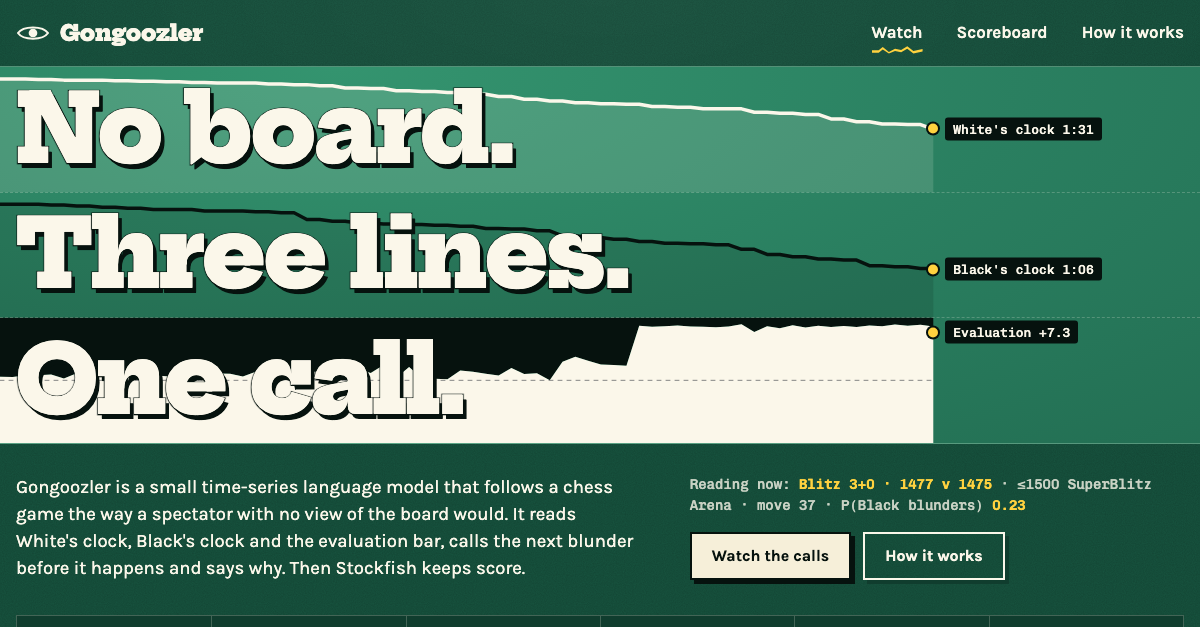
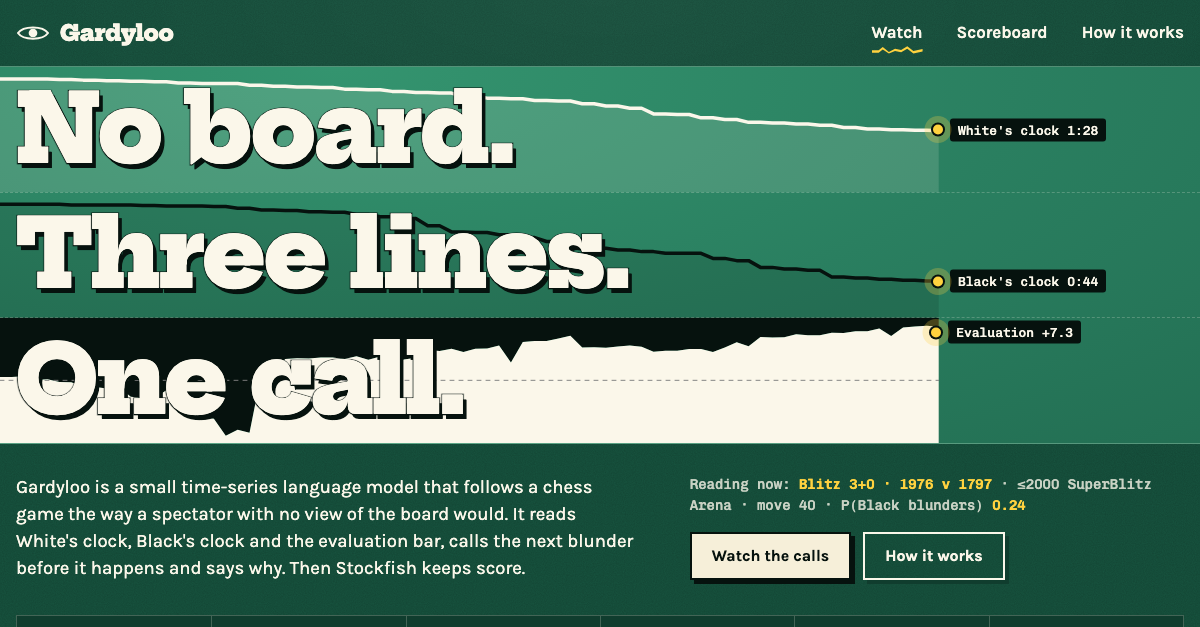
chore: rename the project to Gardyloo

diff --git a/web/index.html b/web/index.html
@@ -3,10 +3,10 @@
 <head>
 <meta charset="utf-8">
 <meta name="viewport" content="width=device-width, initial-scale=1">
-<title>Gongoozler · it calls the blunder without seeing the board</title>
+<title>Gardyloo · it calls the blunder without seeing the board</title>
 <meta name="description" content="A time-series language model that watches live chess through two clocks and the evaluation bar, calls the next blunder before it happens, and lets Stockfish keep score.">
 <meta property="og:type" content="website">
-<meta property="og:title" content="Gongoozler · it calls the blunder without seeing the board">
+<meta property="og:title" content="Gardyloo · it calls the blunder without seeing the board">
 <meta property="og:description" content="A time-series language model that watches live chess through two clocks and the evaluation bar, calls the next blunder before it happens, and lets Stockfish keep score.">
 <meta property="og:image:width" content="1200">
 <meta property="og:image:height" content="627">
@@ -21,16 +21,16 @@
 <a class="skip" href="#main">Skip to the live games</a>
 
 <header class="nav">
-  <a class="brand" href="#/" data-go="watch" aria-label="Gongoozler, home">
+  <a class="brand" href="#/" data-go="watch" aria-label="Gardyloo, home">
     <svg viewBox="0 0 40 24" aria-hidden="true"><path d="M2 12C8 3 32 3 38 12C32 21 8 21 2 12Z" fill="none" stroke="currentColor" stroke-width="2.4"/><circle cx="20" cy="12" r="5.2" fill="currentColor"/></svg>
-    <span>Gongoozler</span>
+    <span>Gardyloo</span>
   </a>
   <nav aria-label="Views">
     <a href="#/" data-go="watch" class="mag">Watch</a>
     <a href="#/score" data-go="score" class="mag">Scoreboard</a>
     <a href="#/how" data-go="how" class="mag">How it works</a>
     <!-- set href to the repository and remove `hidden` -->
-    <a class="gh mag" hidden target="_blank" rel="noreferrer" aria-label="GitHub repository"><svg viewBox="0 0 24 24" width="18" height="18" fill="currentColor" aria-hidden="true"><path d="M12 .5a11.5 11.5 0 0 0-3.64 22.41c.58.1.79-.25.79-.56v-2c-3.2.7-3.88-1.36-3.88-1.36-.52-1.33-1.28-1.69-1.28-1.69-1.05-.71.08-.7.08-.7 1.16.08 1.77 1.19 1.77 1.19 1.03 1.77 2.7 1.26 3.36.96.1-.75.4-1.26.73-1.55-2.55-.29-5.24-1.28-5.24-5.68 0-1.26.45-2.28 1.19-3.09-.12-.29-.52-1.46.11-3.05 0 0 .97-.31 3.17 1.18a11 11 0 0 1 5.78 0c2.2-1.49 3.17-1.18 3.17-1.18.63 1.59.23 2.76.11 3.05.74.81 1.19 1.83 1.19 3.09 0 4.41-2.69 5.38-5.25 5.67.41.36.78 1.06.78 2.14v3.17c0 .31.21.67.8.56A11.5 11.5 0 0 0 12 .5Z"/></svg></a>
+    <a class="gh mag" href="https://github.com/SudeepGowda55/gardyloo" target="_blank" rel="noreferrer" aria-label="GitHub repository"><svg viewBox="0 0 24 24" width="18" height="18" fill="currentColor" aria-hidden="true"><path d="M12 .5a11.5 11.5 0 0 0-3.64 22.41c.58.1.79-.25.79-.56v-2c-3.2.7-3.88-1.36-3.88-1.36-.52-1.33-1.28-1.69-1.28-1.69-1.05-.71.08-.7.08-.7 1.16.08 1.77 1.19 1.77 1.19 1.03 1.77 2.7 1.26 3.36.96.1-.75.4-1.26.73-1.55-2.55-.29-5.24-1.28-5.24-5.68 0-1.26.45-2.28 1.19-3.09-.12-.29-.52-1.46.11-3.05 0 0 .97-.31 3.17 1.18a11 11 0 0 1 5.78 0c2.2-1.49 3.17-1.18 3.17-1.18.63 1.59.23 2.76.11 3.05.74.81 1.19 1.83 1.19 3.09 0 4.41-2.69 5.38-5.25 5.67.41.36.78 1.06.78 2.14v3.17c0 .31.21.67.8.56A11.5 11.5 0 0 0 12 .5Z"/></svg></a>
   </nav>
 </header>
 
@@ -45,7 +45,7 @@
       <div class="lane"><p class="hl" aria-hidden="true"><span class="line" data-split>One call.</span></p><span class="pen" id="penE"></span></div>
     </div>
     <div class="hero-foot wrap">
-      <p class="lede">Gongoozler is a small time-series language model that follows a chess game the way a spectator with no view of the board would. It reads White's clock, Black's clock and the evaluation bar, calls the next blunder before it happens and says why. Then Stockfish keeps score.</p>
+      <p class="lede">Gardyloo is a small time-series language model that follows a chess game the way a spectator with no view of the board would. It reads White's clock, Black's clock and the evaluation bar, calls the next blunder before it happens and says why. Then Stockfish keeps score.</p>
       <div class="hero-side">
         <p class="reading" id="reading" aria-live="polite">Connecting to the watcher…</p>
         <div class="cta">
@@ -101,7 +101,7 @@
 <section class="view" id="view-how" data-view="how" hidden>
   <div class="wrap page-head">
     <h1 class="hl small"><span class="line" data-split>Watching without</span> <span class="line" data-split>seeing.</span></h1>
-    <p class="lede">A gongoozler is an idle spectator. This one cannot see the pieces. Scroll through one real game from the test set to see what it is given and how it is judged.</p>
+    <p class="lede">“Gardyloo!” was the cry in old Edinburgh before something was thrown from a window: a warning, just before it lands. This model shouts before a blunder, and it cannot see the pieces. Scroll through one real game from the test set to see what it is given and how it is judged.</p>
   </div>
   <div class="story" id="story">
     <div class="stage">
@@ -134,7 +134,7 @@
 </main>
 
 <footer class="foot wrap">
-  <p>Gongoozler, an entry for the TimeNet Online Hackathon. Games are real rated Lichess games in progress, shown without player names. <span id="footFeed"></span></p>
+  <p>Gardyloo, an entry for the TimeNet Online Hackathon. Games are real rated Lichess games in progress, shown without player names. <span id="footFeed"></span></p>
 </footer>
 
 <div class="banner" id="banner" role="status" aria-live="assertive" hidden></div>

diff --git a/web/js/app.js b/web/js/app.js
@@ -1,5 +1,5 @@
 "use strict";
-/* Gongoozler's page: live games as three time series, calls as paper slips, an honest scoreboard. No board anywhere. */
+/* Gardyloo's page: live games as three time series, calls as paper slips, an honest scoreboard. No board anywhere. */
 const $ = (s, r = document) => r.querySelector(s), $$ = (s, r = document) => [...r.querySelectorAll(s)];
 const el = (tag, cls, html) => { const e = document.createElement(tag); if (cls) e.className = cls; if (html != null) e.innerHTML = html; return e; };
 const REDUCED = matchMedia("(prefers-reduced-motion: reduce)").matches;
@@ -248,7 +248,7 @@ function tote() {
 function scoreView() {
   const sb = S.board; if (!sb) return;
   const a = sb.all, bar = (cls, text, v, none) => `<div class="vs ${cls}" style="--v:${v ?? 0}"><p class="k"><span>${text}</span><b>${v == null ? none : pct(v)}</b></p><div class="track"><i></i></div></div>`;
-  $("#versus").innerHTML = bar("model", "When Gongoozler calls a blunder, one follows", a.precision, "waiting for the first call")
+  $("#versus").innerHTML = bar("model", "When Gardyloo calls a blunder, one follows", a.precision, "waiting for the first call")
     + bar("", "After any position at all, one follows (live base rate)", a.base_rate, "nothing judged yet");
   const cols = ["all", ...SPEEDS], rows = [
     ["Calls judged", b => b.calls], ["Hits", b => b.hits], ["Precision", b => pct(b.precision)], ["Live base rate", b => pct(b.base_rate)],
@@ -261,7 +261,7 @@ function scoreView() {
   $("#footFeed").textContent = `Feed: ${i.feed}.`;
 }
 
-const SETS = { priors: ["Priors only", "ratings, time control, ply, side to move"], "clock-dynamics": ["Clocks alone", "seconds left and spent per move"], clocks: ["Priors + clocks", "all a live game offers without an engine"], "clocks+engine": ["Priors + clocks + evaluation bar", "what Gongoozler reads"] };
+const SETS = { priors: ["Priors only", "ratings, time control, ply, side to move"], "clock-dynamics": ["Clocks alone", "seconds left and spent per move"], clocks: ["Priors + clocks", "all a live game offers without an engine"], "clocks+engine": ["Priors + clocks + evaluation bar", "what Gardyloo reads"] };
 function offline() {
   const R = S.results; if (!R) return;
   const base = R.baselines, x = v => clamp((v - .5) / .35), rows = [];
@@ -401,7 +401,7 @@ function show(v) {
   S.view = document.body.dataset.view = v;
   $$(".view").forEach(s => s.hidden = s.dataset.view !== v);
   $$(".nav nav a[data-go]").forEach(a => a.dataset.go === v ? a.setAttribute("aria-current", "page") : a.removeAttribute("aria-current"));
-  document.title = v === "watch" ? "Gongoozler · it calls the blunder without seeing the board" : `${VIEWS[v][1]} · Gongoozler`;
+  document.title = v === "watch" ? "Gardyloo · it calls the blunder without seeing the board" : `${VIEWS[v][1]} · Gardyloo`;
   lenis ? (lenis.resize(), lenis.scrollTo(0, { immediate: true })) : scrollTo(0, 0);
   headlines($(`[data-view="${v}"]`)); redraw();
 }

diff --git a/web/css/style.css b/web/css/style.css
@@ -1,4 +1,4 @@
-/* Gongoozler: a lit baize table. Ivory = White, ink = Black, chalk yellow = the model's suspicion,
+/* Gardyloo: a lit baize table. Ivory = White, ink = Black, chalk yellow = the model's suspicion,
    vermilion only ever on paper (a call), because red on green is unreadable for many people. */
 @font-face { font-family: "Hepta Slab"; src: url(../assets/fonts/hepta-slab.woff2) format("woff2"); font-weight: 100 900; font-display: swap; }
 @font-face { font-family: "Karla"; src: url(../assets/fonts/karla.woff2) format("woff2"); font-weight: 200 800; font-display: swap; }

diff --git a/scripts/demo.py b/scripts/demo.py
@@ -1,6 +1,6 @@
-"""Terminal run-of-show: Gongoozler's calls and Stockfish's verdicts as they happen, with the running score.
+"""Terminal run-of-show: Gardyloo's calls and Stockfish's verdicts as they happen, with the running score.
 
-Start the watcher first (uv run python -m gongoozler.live), then run: uv run python scripts/demo.py
+Start the watcher first (uv run python -m gardyloo.live), then run: uv run python scripts/demo.py
 """
 
 import argparse
@@ -54,7 +54,7 @@ def main() -> None:
         while True:
             try:
                 state = http.get("/api/state").json()
-                print(f"Gongoozler is watching {len(state['games'])} live Lichess games with the clocks only.")
+                print(f"Gardyloo is watching {len(state['games'])} live Lichess games with the clocks only.")
                 print(f"model: {state['model']}{'' if state['trained'] else '  ** NOT A TRAINED MODEL **'}")
                 print(f"calls a blunder at P >= {state['threshold']:.3f}; Stockfish depth {state['verifier']['depth']} is the referee")
                 print(f"so far: {score_line(state['scoreboard'])}\n")

diff --git a/tests/test_baselines.py b/tests/test_baselines.py
@@ -5,7 +5,7 @@ import numpy as np
 import pytest
 from sklearn.ensemble import HistGradientBoostingClassifier
 
-from gongoozler.baselines import (
+from gardyloo.baselines import (
     FEATURE_SETS,
     BaselinePredictor,
     bootstrap_aucs,
@@ -18,8 +18,8 @@ from gongoozler.baselines import (
     speed_bucket,
     top_precision,
 )
-from gongoozler.data import Window
-from gongoozler.predict import BASELINE_MODEL, make_window
+from gardyloo.data import Window
+from gardyloo.predict import BASELINE_MODEL, make_window
 
 
 def test_move_times_without_increment():
@@ -131,7 +131,7 @@ def test_baseline_predictor_on_a_live_window(tmp_path):
     assert "not a worry" in predictor.explain(make_window([180, 180, 181, 181, 182], "180+2", 1500, 1600))
 
 
-@pytest.mark.skipif(not BASELINE_MODEL.exists(), reason="run `uv run python -m gongoozler.baselines` first")
+@pytest.mark.skipif(not BASELINE_MODEL.exists(), reason="run `uv run python -m gardyloo.baselines` first")
 def test_shipped_model_is_small_and_loads():
     assert BASELINE_MODEL.stat().st_size < 5_000_000
     predictor = BaselinePredictor(BASELINE_MODEL)

diff --git a/src/gardyloo/predict.py b/src/gardyloo/predict.py
@@ -5,7 +5,7 @@ from typing import Protocol
 
 import numpy as np
 
-from gongoozler.data import Window
+from gardyloo.data import Window
 
 ROOT = Path(__file__).resolve().parents[2]
 TSLM_CHECKPOINT = ROOT / "checkpoints" / "tslm-clocks.pt"
@@ -88,11 +88,11 @@ def load_predictor(prefer: str | None = None) -> Predictor:
         FileNotFoundError: If no trained model is on disk.
     """
     if prefer != "baseline" and TSLM_CHECKPOINT.exists():
-        from gongoozler.tslm import TslmPredictor  # noqa: PLC0415 (torch is slow to import)
+        from gardyloo.tslm import TslmPredictor  # noqa: PLC0415 (torch is slow to import)
 
         return TslmPredictor(TSLM_CHECKPOINT)
     if prefer != "tslm" and BASELINE_MODEL.exists():
-        from gongoozler.baselines import BaselinePredictor  # noqa: PLC0415
+        from gardyloo.baselines import BaselinePredictor  # noqa: PLC0415
 
         return BaselinePredictor(BASELINE_MODEL)
     raise FileNotFoundError("no trained model found; run the training or the baselines first")

diff --git a/src/gardyloo/live/watcher.py b/src/gardyloo/live/watcher.py
@@ -10,11 +10,11 @@ import time
 
 import httpx
 
-from gongoozler.live import feed
-from gongoozler.live.game import FIRST_DECISION_PLY, SPEEDS, Decision, Game, Scoreboard
-from gongoozler.live.heuristic import DevHeuristicPredictor
-from gongoozler.live.verifier import DEPTH, Verifier
-from gongoozler.predict import ROOT, Predictor
+from gardyloo.live import feed
+from gardyloo.live.game import FIRST_DECISION_PLY, SPEEDS, Decision, Game, Scoreboard
+from gardyloo.live.heuristic import DevHeuristicPredictor
+from gardyloo.live.verifier import DEPTH, Verifier
+from gardyloo.predict import ROOT, Predictor
 
 LOG = ROOT / ".cache" / "live-log.jsonl"
 REPLAY_SECONDS = 1.5  # positions this soon after connecting are the replay of moves already played
@@ -23,7 +23,7 @@ ARENA_SECONDS = 300  # how often the list of arenas is read again
 LINGER_SECONDS = 30  # a finished game stays visible this long
 MAX_FAILURES = 5
 
-log = logging.getLogger("gongoozler.live")
+log = logging.getLogger("gardyloo.live")
 
 
 class Watcher:

diff --git a/src/gardyloo/tslm.py b/src/gardyloo/tslm.py
@@ -4,9 +4,9 @@ The model never sees the board. In mode "clocks+engine" it reads both clocks and
 bar; in mode "clocks" (the ablation) only the clocks. It first writes what it sees in the series and
 then answers, so the answer can rest on its own description.
 
-    uv run python -m gongoozler.tslm train
-    uv run python -m gongoozler.tslm eval
-    uv run python -m gongoozler.tslm explain --n 5
+    uv run python -m gardyloo.tslm train
+    uv run python -m gardyloo.tslm eval
+    uv run python -m gardyloo.tslm explain --n 5
 """
 
 import argparse
@@ -19,7 +19,7 @@ from sklearn.metrics import average_precision_score, roc_auc_score
 import torch
 import torch.nn.functional as F
 
-from gongoozler.data import Window, load_windows
+from gardyloo.data import Window, load_windows
 
 ROOT = Path(__file__).resolve().parents[2]
 CHECKPOINTS = ROOT / "checkpoints"

diff --git a/src/gardyloo/live/server.py b/src/gardyloo/live/server.py
@@ -9,11 +9,11 @@ from fastapi import FastAPI
 from fastapi.responses import StreamingResponse
 from fastapi.staticfiles import StaticFiles
 
-from gongoozler.live.watcher import Watcher
-from gongoozler.predict import ROOT
+from gardyloo.live.watcher import Watcher
+from gardyloo.predict import ROOT
 
 KEEPALIVE_SECONDS = 15
-log = logging.getLogger("gongoozler.live")
+log = logging.getLogger("gardyloo.live")
 
 
 def create_app(watcher: Watcher) -> FastAPI:
@@ -25,7 +25,7 @@ def create_app(watcher: Watcher) -> FastAPI:
         app.state.task.cancel()
         await asyncio.gather(app.state.task, return_exceptions=True)
 
-    app = FastAPI(title="Gongoozler live", lifespan=lifespan)
+    app = FastAPI(title="Gardyloo live", lifespan=lifespan)
 
     @app.get("/api/health")
     def health() -> dict:

diff --git a/src/gardyloo/live/__main__.py b/src/gardyloo/live/__main__.py
@@ -1,4 +1,4 @@
-"""Run the live watcher: uv run python -m gongoozler.live"""
+"""Run the live watcher: uv run python -m gardyloo.live"""
 
 import argparse
 import json
@@ -7,11 +7,11 @@ import os
 
 import uvicorn
 
-from gongoozler.live.heuristic import DevHeuristicPredictor
-from gongoozler.live.server import create_app
-from gongoozler.live.verifier import DEPTH
-from gongoozler.live.watcher import Watcher
-from gongoozler.predict import ROOT, Predictor, load_predictor
+from gardyloo.live.heuristic import DevHeuristicPredictor
+from gardyloo.live.server import create_app
+from gardyloo.live.verifier import DEPTH
+from gardyloo.live.watcher import Watcher
+from gardyloo.predict import ROOT, Predictor, load_predictor
 
 FALLBACK_THRESHOLD = 0.40
 

diff --git a/tests/test_live.py b/tests/test_live.py
@@ -6,10 +6,10 @@ import chess
 import chess.engine
 import pytest
 
-from gongoozler.live.game import Decision, Game, Scoreboard, chances_lost, winning_chances
-from gongoozler.live.heuristic import DevHeuristicPredictor
-from gongoozler.live.verifier import score_chances, score_pawns, terminal_chances
-from gongoozler.live.watcher import Watcher
+from gardyloo.live.game import Decision, Game, Scoreboard, chances_lost, winning_chances
+from gardyloo.live.heuristic import DevHeuristicPredictor
+from gardyloo.live.verifier import score_chances, score_pawns, terminal_chances
+from gardyloo.live.watcher import Watcher
 
 # One real rapid game as /api/stream/game/<id> sent it (White resigned after 32 plies); id and names replaced.
 RECORDED = """\

diff --git a/src/gardyloo/baselines.py b/src/gardyloo/baselines.py
@@ -12,8 +12,8 @@ from sklearn.metrics import average_precision_score, brier_score_loss, roc_auc_s
 from sklearn.pipeline import make_pipeline
 from sklearn.preprocessing import StandardScaler
 
-from gongoozler.data import DATASET, Window, load_windows
-from gongoozler.predict import BASELINE_MODEL, ROOT
+from gardyloo.data import DATASET, Window, load_windows
+from gardyloo.predict import BASELINE_MODEL, ROOT
 
 RESULTS = ROOT / "results" / "baselines.json"
 RECENT = 5  # own moves, the horizon the dataset's rationales use
